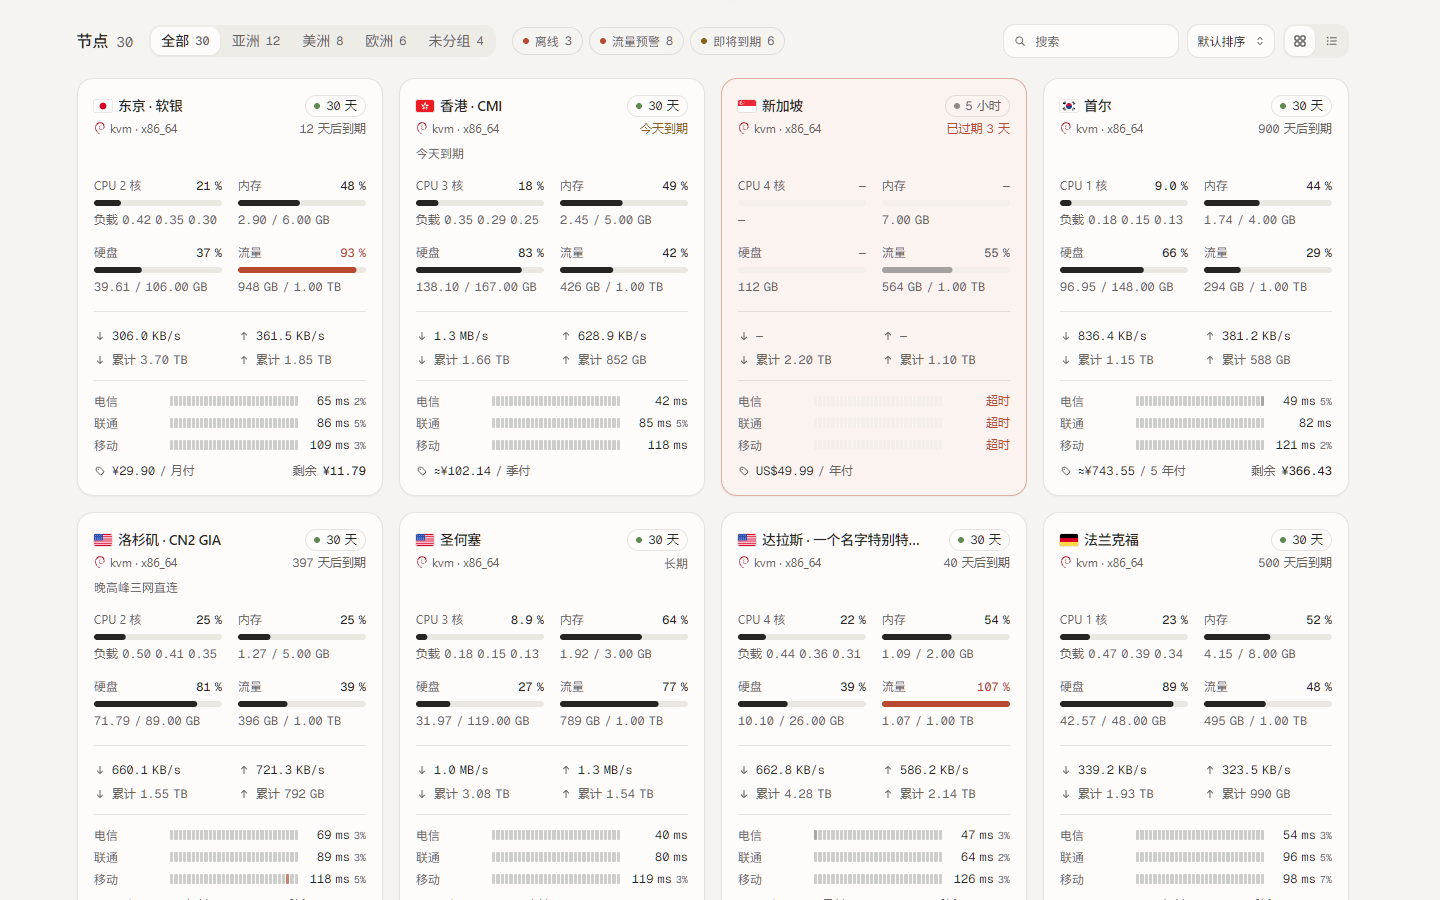
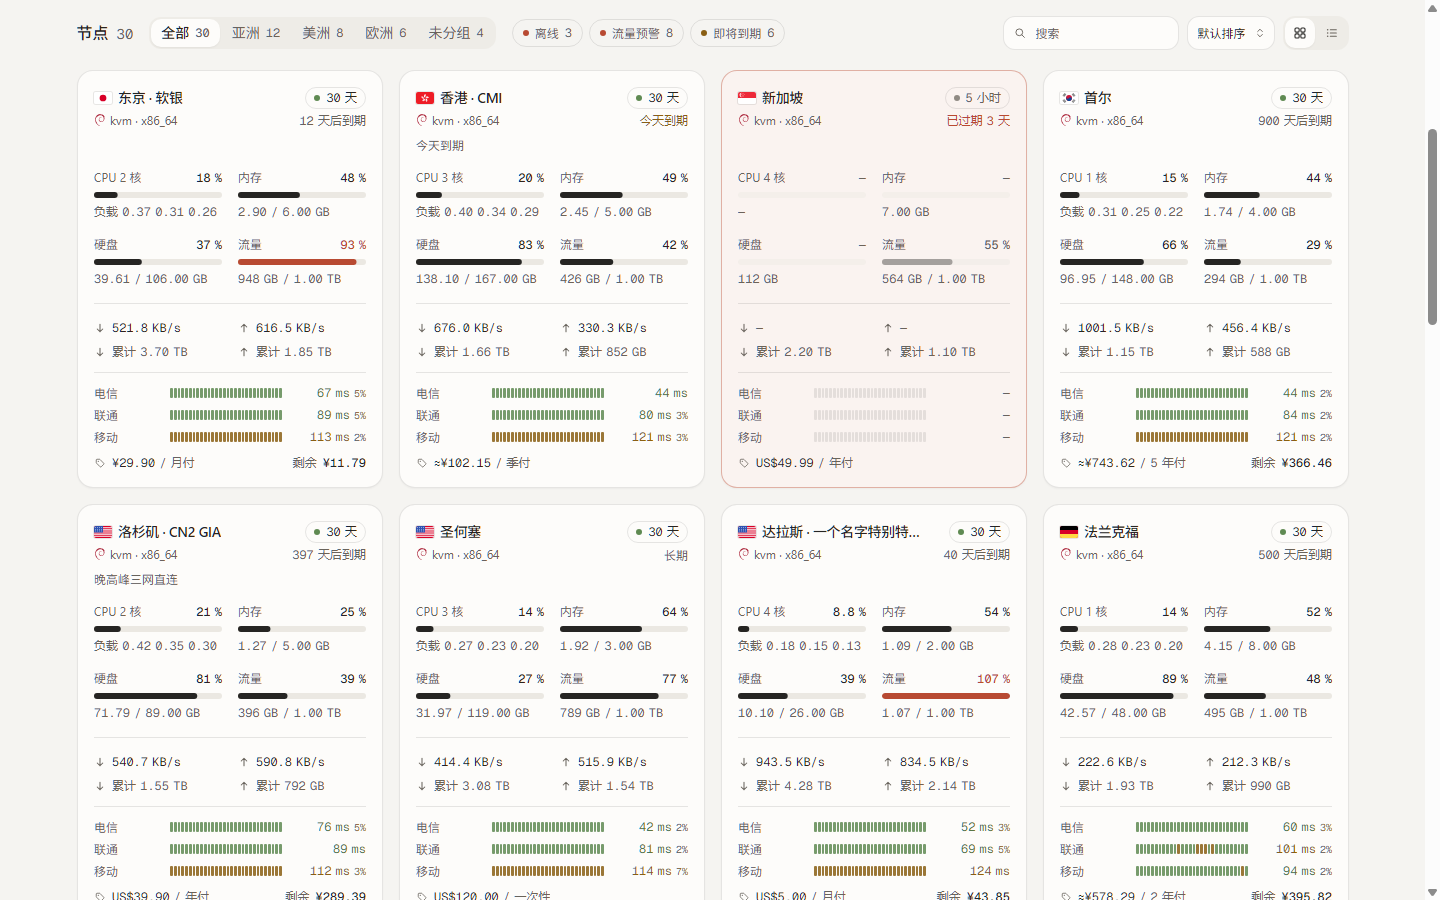
1.2.22: semantic green/amber/red latency colors and per-slot tooltips

diff --git a/src/components/CardPing.tsx b/src/components/CardPing.tsx
@@ -75,6 +75,8 @@ export type ProbeLine = {
   loss: number
   /** One block per slot: its median, null for a timeout, undefined for no data. */
   slots: (number | null | undefined)[]
+  /** Window start timestamp in unix seconds, for per-slot tooltips. */
+  start: number
   typical: number | null
 }
 
@@ -103,11 +105,12 @@ export function probeLines(data: PingData | null | undefined, wanted: string, ho
   if (!data?.probes || !data.ping) return []
   const end = Date.now() / 1000
   const span = hours * 3600
+  const start = end - span
   return pickProbes(data.probes, wanted).map(([id, name]) => {
     const rows = data.ping!.filter((p) => p.task_id === id).sort((a, b) => a.ts - b.ts)
     const buckets: (number | null)[][] = Array.from({ length: SLOTS }, () => [])
     for (const r of rows) {
-      const i = Math.floor(((r.ts - (end - span)) / span) * SLOTS)
+      const i = Math.floor(((r.ts - start) / span) * SLOTS)
       if (i >= 0 && i < SLOTS) buckets[i].push(r.latency)
     }
     const slots = buckets.map((b) => {
@@ -123,52 +126,74 @@ export function probeLines(data: PingData | null | undefined, wanted: string, ho
       latest: last ? last.latency : undefined,
       loss: data.loss?.[id] ?? 0,
       slots,
+      start,
       typical: median(answered),
     }
   })
 }
 
-/**
- * A block's shade: ink, deeper the further above the line's usual latency it
- * sits; the warning colour past half again; red for a timeout; the track's own
- * grey for no data. One accent at most, as everywhere on the page.
- *
- * Slower counts only by a margin a person would feel as well as by share: on a
- * 1 ms line, 2 ms is twice the usual and still nothing, and drawn by share alone
- * such lines were striped amber end to end.
- */
+// Absolute round-trip tiers matching the card's semantic palette: green (<100 ms),
+// amber (100–250 ms), and red (>=250 ms or timeout). Sharp spikes above a fast
+// line's own median step up one tier so jitter on domestic links stays visible.
+const MID_MS = 100
+const SLOW_MS = 250
+
 function shade(v: number | null | undefined, typical: number | null): string {
-  if (v === undefined) return "bg-muted"
-  if (v === null) return "bg-hot/70"
-  if (!typical) return "bg-foreground/22"
-  const over = v - typical
-  const r = v / typical
-  if (r >= 1.5 && over >= 30) return "bg-warn"
-  if (r >= 1.25 && over >= 12) return "bg-foreground/60"
-  if (r >= 1.1 && over >= 5) return "bg-foreground/40"
-  return "bg-foreground/22"
+  if (v === undefined) return "bg-foreground/10"
+  if (v === null) return "bg-hot"
+  if (v >= SLOW_MS) return "bg-hot/75"
+  if (v >= MID_MS) {
+    if (typical && v / typical >= 1.5 && v - typical >= 50) return "bg-hot/75"
+    return "bg-warn/85"
+  }
+  if (typical && v / typical >= 1.8 && v - typical >= 30) return "bg-warn/85"
+  return "bg-online/85"
+}
+
+function latencyTone(v: number | null | undefined): string {
+  if (v === undefined) return "text-muted-foreground"
+  if (v === null || v >= SLOW_MS) return "text-hot"
+  if (v >= MID_MS) return "text-warn"
+  return "[color:color-mix(in_srgb,var(--online)_80%,var(--foreground))]"
+}
+
+function lossTone(loss: number): string {
+  if (loss >= 10) return "text-hot"
+  if (loss >= 3) return "text-warn"
+  return "text-muted-foreground"
 }
 
 const ms = (v: number | null | undefined) => (v === undefined ? "—" : v === null ? "超时" : v < 1 ? "<1 ms" : `${Math.round(v)} ms`)
 
+function hhmm(sec: number): string {
+  const d = new Date(sec * 1000)
+  return `${String(d.getHours()).padStart(2, "0")}:${String(d.getMinutes()).padStart(2, "0")}`
+}
+
 /** A probe's row: name, strip, latest, loss. */
 function ProbeRow({ line, hours }: { line: ProbeLine; hours: number }) {
+  const step = (hours * 3600) / SLOTS
+  const summary = `最近 ${hours} 小时 · 常态 ${line.typical === null ? "—" : ms(line.typical)}${line.loss > 0 ? ` · 丢包 ${line.loss.toFixed(1)} %` : ""}（绿 <${MID_MS} ms · 黄 ${MID_MS}–${SLOW_MS} ms · 红 ≥${SLOW_MS} ms / 超时）`
   return (
-    <div className="grid grid-cols-[4.25rem_minmax(0,1fr)_3.75rem] items-center gap-2 text-xs">
-      <span className="truncate text-muted-foreground" title={line.name}>{line.name}</span>
+    <div className="grid grid-cols-[4.25rem_minmax(0,1fr)_4.75rem] items-center gap-2 text-xs">
+      <span className="truncate text-muted-foreground" title={`${line.name} · ${summary}`}>{line.name}</span>
       <span
         className="flex h-2.5 min-w-0 gap-px"
         role="img"
-        aria-label={`${line.name} 最近 ${hours} 小时延迟，深色为较慢时段`}
-        title={`最近 ${hours} 小时 · 常态 ${line.typical === null ? "—" : ms(line.typical)}${line.loss > 0 ? ` · 丢包 ${line.loss.toFixed(1)} %` : ""}`}
+        aria-label={`${line.name} 最近 ${hours} 小时延迟，绿顺畅、黄偏高、红较慢或超时`}
+        title={summary}
       >
         {line.slots.map((v, i) => (
-          <span key={i} className={cn("h-full min-w-0 flex-1 rounded-[1px]", shade(v, line.typical))} />
+          <span
+            key={i}
+            className={cn("h-full min-w-0 flex-1 rounded-[1px]", shade(v, line.typical))}
+            title={`${hhmm(line.start + i * step)} · ${v === undefined ? "无数据" : ms(v)}`}
+          />
         ))}
       </span>
-      <span className={cn("tnum text-right whitespace-nowrap", line.latest === null && "text-hot", line.latest === undefined && "text-muted-foreground")}>
+      <span className={cn("tnum text-right whitespace-nowrap", latencyTone(line.latest))} title={summary}>
         {ms(line.latest)}
-        {line.loss >= 1 && <span className="ml-1 text-[10px] text-muted-foreground">{Math.round(line.loss)}%</span>}
+        {line.loss >= 1 && <span className={cn("ml-1 text-[10px]", lossTone(line.loss))}>{Math.round(line.loss)}%</span>}
       </span>
     </div>
   )
@@ -199,7 +224,7 @@ export const CardPing = memo(function CardPing({ id }: { id: number }) {
       {lines.length
         ? lines.map((l) => <ProbeRow key={l.id} line={l} hours={hours} />)
         : [0, 1, 2].map((i) => (
-            <div key={i} className="grid grid-cols-[4.25rem_minmax(0,1fr)_3.75rem] items-center gap-2" aria-hidden>
+            <div key={i} className="grid grid-cols-[4.25rem_minmax(0,1fr)_4.75rem] items-center gap-2" aria-hidden>
               <span className="h-2.5 rounded bg-muted" />
               <span className="h-2.5 rounded bg-muted/60" />
               <span className="h-2.5 rounded bg-muted" />
@@ -231,7 +256,7 @@ export const PingCell = memo(function PingCell({ id }: { id: number }) {
         <>
           <div className="truncate">
             {lines.map((l, i) => (
-              <span key={l.id} className={cn(l.latest === null && "text-hot", l.latest === undefined && "text-muted-foreground")}>
+              <span key={l.id} className={latencyTone(l.latest)}>
                 {i > 0 && <span className="text-muted-foreground"> · </span>}
                 {l.latest === undefined ? "—" : l.latest === null ? "超时" : l.latest < 1 ? "<1" : Math.round(l.latest)}
               </span>
@@ -258,7 +283,7 @@ export function PingSummary({ id }: { id: number }) {
       {lines.map((l, i) => (
         <span key={l.id}>
           {i > 0 && " · "}
-          <span className={cn("whitespace-nowrap", l.latest === null && "text-hot", l.latest === undefined && "text-muted-foreground")}>{`${l.name} ${ms(l.latest)}`}</span>
+          <span className={cn("whitespace-nowrap", latencyTone(l.latest))}>{`${l.name} ${ms(l.latest)}`}</span>
         </span>
       ))}
     </span>

diff --git a/README.md b/README.md
@@ -16,7 +16,7 @@
 - **场景配色与丝滑切换**：锦鲤配暖纸与暖墨，幽灵配灰绿阴天与无月长夜。切换场景或深浅色时，旧页面化作快照在半秒多里淡出，只动透明度，实测桌面约 155 帧；切换场景时下方列表平滑移到新位置，切换深浅色时池塘还会荡开字符涟漪。进出节点详情页同样淡入淡出，总览网速数字平滑滚动。
 - **点阵地球仪**：陆地由细密墨点构成，节点所在国家标以彩色脉动珠子（锦鲤为赤陶橙、幽灵为冷蓝），支持拖拽旋转；点击珠子或下方地区标签即可按地区筛选。
 - **人民币 / 美元实时折算**：总览统计月均支出与剩余价值合计（主要货币在上、另一种在下），卡片与详情页按选定货币标价并支持悬停查看原价。汇率每日自动从三个公开源（Cloudflare 镜像、jsDelivr、欧洲央行 Frankfurter）取最新一日汇率（长开页面每小时检查一次），也可关闭以禁用第三方请求。
-- **三网延迟**：节点卡片底部列出电信、联通、移动（或站长指定的探测点）的当前延迟、最近一段时间的色块条（越深越慢，红色为超时）和丢包率，一眼看出哪个时段最慢；详情页信息栏和表格视图也会显示。需要在 hub 中配置延迟探测。
+- **三网延迟**：节点卡片底部列出电信、联通、移动（或站长指定的探测点）的当前延迟、最近一段时间的色块条（绿 `<100 ms`、黄 `100–250 ms`、红 `≥250 ms` 或超时，悬停单格可查看时段与数值）和丢包率，一眼看出线路快慢与拥堵时段；详情页信息栏和表格视图也会显示。需要在 hub 中配置延迟探测。
 - **筛选、双视图与详情页**：支持分组标签与「离线 / 流量预警 / 即将到期」状态快捷筛选（管理员登录后含「不公开」），提供关键词搜索、9 种排序与卡片 / 表格双视图切换；节点详情页包含在线率条、CPU 峰值带、内存与 Swap、实时网速、硬盘、TCP/UDP 连接数与进程数，以及带削峰与探测开关的多线延迟曲线。
 - **后台无缝切换与缓存复用**：停留在首页时提前预加载后台资源，点击「后台 / 登录」原地平滑过渡至 `/admin/nodes`；本地缓存最近状态与配置，刷新或从后台点击「状态面板」返回时直接首帧呈现。
 
